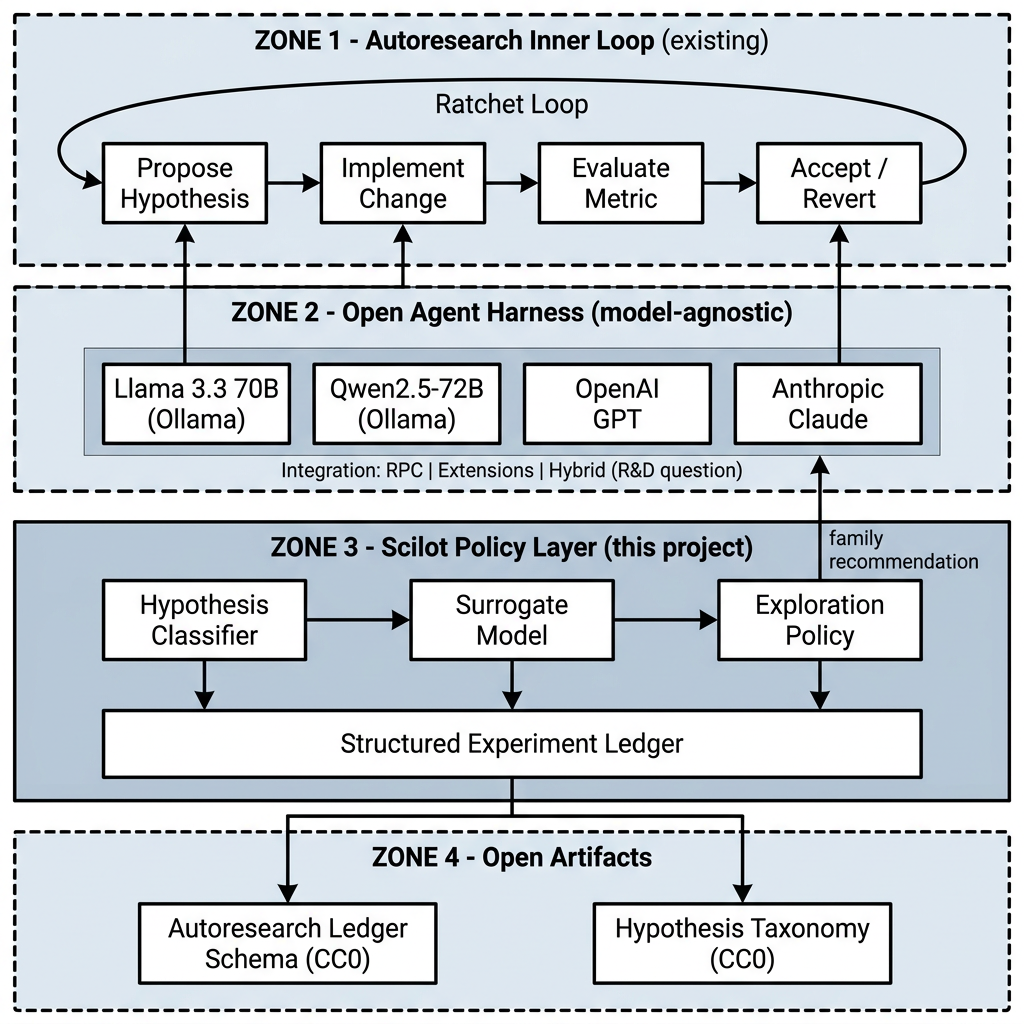
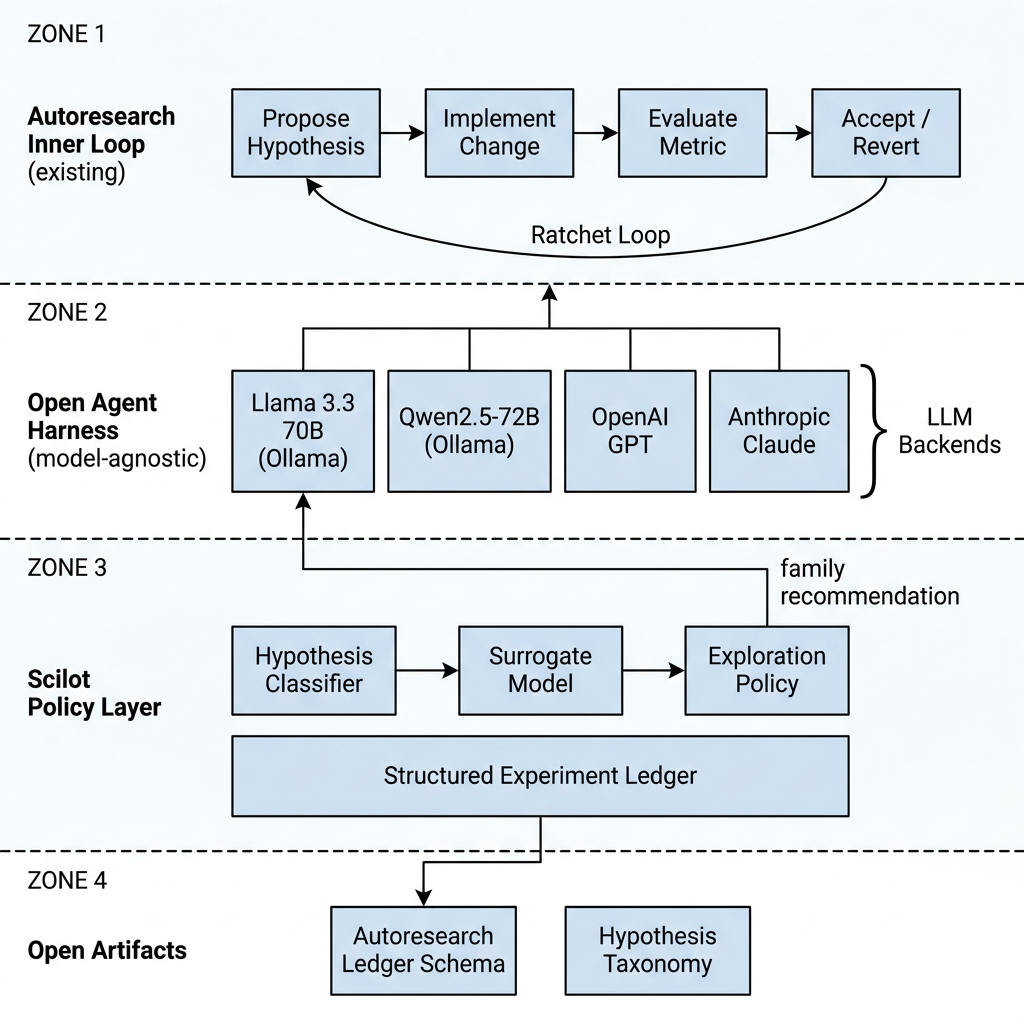
Update readme

diff --git a/README.md b/README.md
@@ -1,38 +1,22 @@
 # Scilot
 
-An open-source exploration-exploitation layer for autonomous ML research loops.
+An exploration-exploitation layer for autonomous ML research loops.
 
 ![Scilot Architecture](scilot_architecture.png)
 
 ## What is Scilot?
 
-Scilot is a model-agnostic agent harness that adds structured exploration infrastructure on top of existing autoresearch loops (e.g., Karpathy's [autoresearch](https://github.com/karpathy/autoresearch)). Where current approaches are greedy hill-climbers with no structured exploration, Scilot introduces:
+Scilot is a model-agnostic policy layer that sits on top of existing autoresearch loops (e.g., Karpathy's [autoresearch](https://github.com/karpathy/autoresearch)) and adds structured exploration. The architecture has four zones:
 
-- **Autoresearch Ledger Schema** — open interoperability format for structured experiment tracking (CC0)
-- **Hypothesis Taxonomy** — versioned classification of ML hypothesis families (CC0)
-- **Exploration policy** — bandit-based strategies (Thompson sampling, Gaussian process surrogate) to select which hypothesis families to pursue next, informed by live metric feedback from executed experiments
-- **Backend comparison study** — empirical evaluation of local open-source models (Ollama) vs. commercial APIs as autoresearch backends
+- **Zone 1 — Autoresearch Inner Loop (existing):** the standard ratchet loop — propose hypothesis → implement change → evaluate metric → accept/revert — via a git-based ratchet.
+- **Zone 2 — Open Agent Harness:** model-agnostic harness supporting both local open-source models (Llama 3.3 70B, Qwen2.5-72B via Ollama) and commercial APIs (OpenAI GPT, Anthropic Claude).
+- **Zone 3 — Scilot Policy Layer:** a Hypothesis Classifier and Surrogate Model feed an Exploration Policy that sends AI model family recommendations back into the loop. All experiments are recorded in a Structured Experiment Ledger.
+- **Zone 4 — Open Artifacts:** the Autoresearch Ledger Schema and Hypothesis Taxonomy are published as open interoperability artifacts.
 
 ## Motivation
 
-Existing autoresearch strategies propose, implement, and evaluate changes via a git-based ratchet but have no structured exploration. They treat all hypothesis families equally and produce no reusable experiment record. Scilot sits on top of the open agent ecosystem and adds the exploration infrastructure that is missing.
+Existing autoresearch strategies treat all hypothesis families equally and produce no reusable experiment record. Scilot adds the exploration infrastructure that is missing: principled hypothesis selection, a surrogate model trained on past runs, and open schemas that make experiment records portable across tools and teams.
 
 ## Status
 
 Under development. Funded by [NGI Zero Commons Fund](https://nlnet.nl/commonsfund/) (NLnet Foundation, 13th round).
-
-## Planned outputs (Apache 2.0 / CC0)
-
-- Agent harness with pluggable exploration policies
-- Autoresearch Ledger Schema v1.0 (JSON Schema + CLI)
-- Hypothesis Taxonomy v1.0 (YAML)
-- Four-backend comparison study arXiv preprint
-- Scilot v1.0 on PyPI
-
-## Team
-
-[Prefer AI d.o.o.](https://preferai.hr) — Dr. Emanuel Lacic & Tomislav Duricic
-
-## License
-
-Apache 2.0 (code) · CC0 (schemas and taxonomy)
